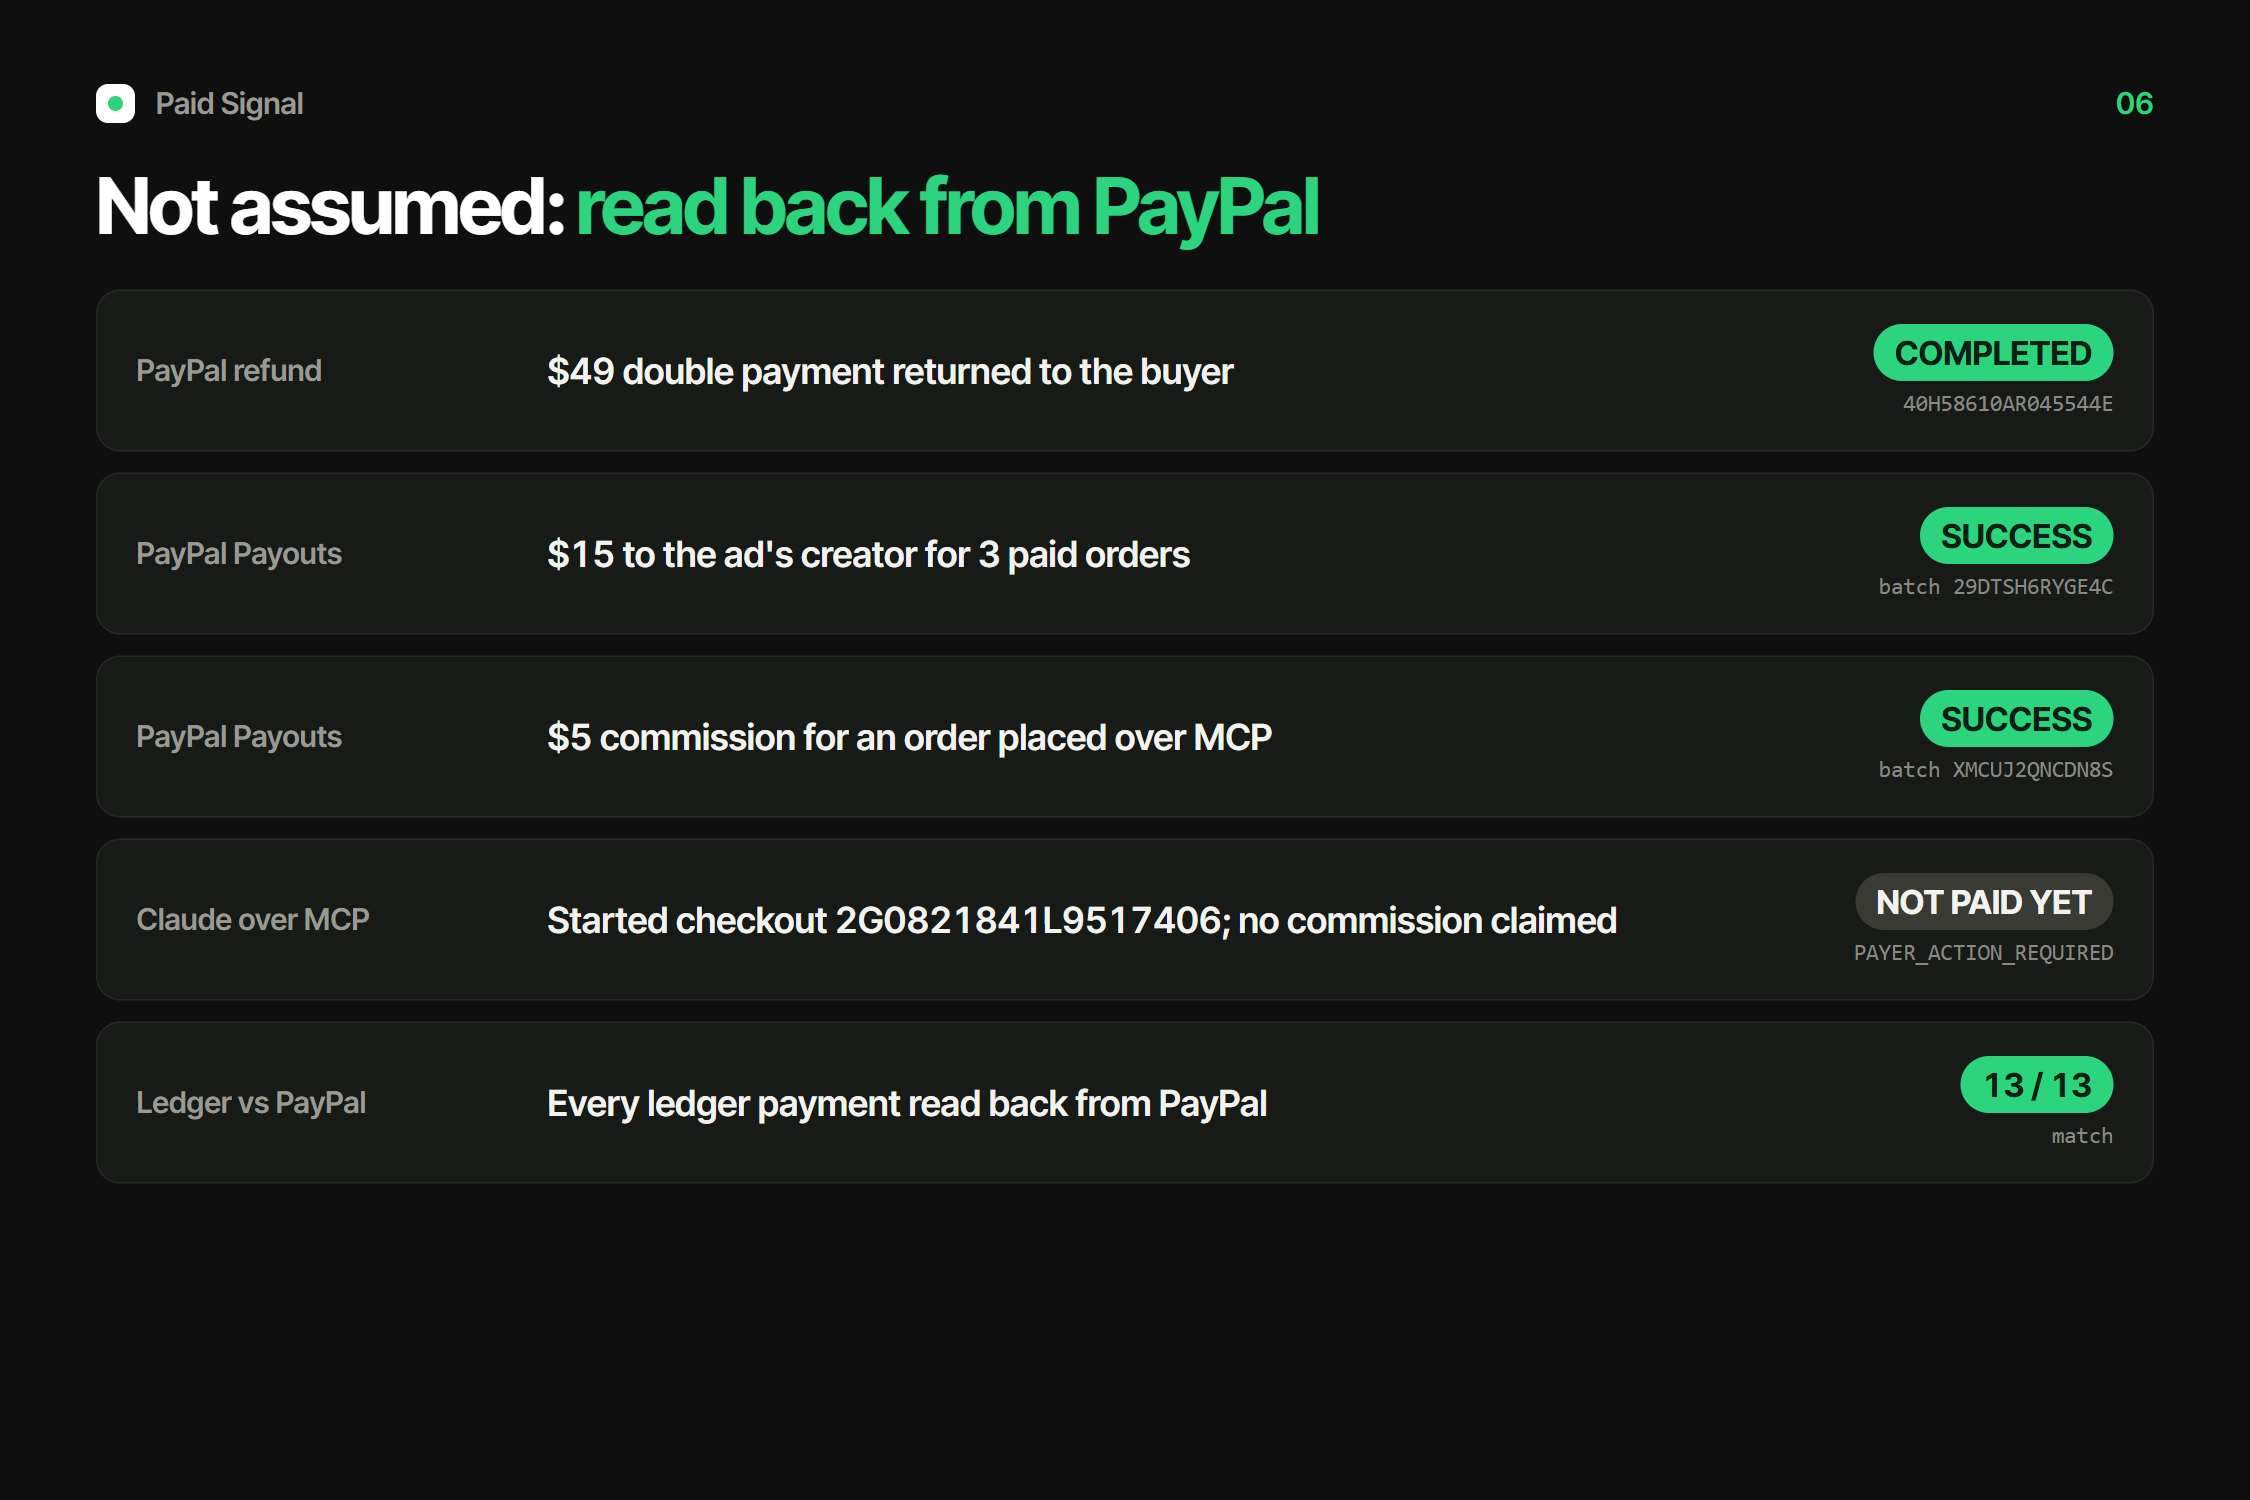
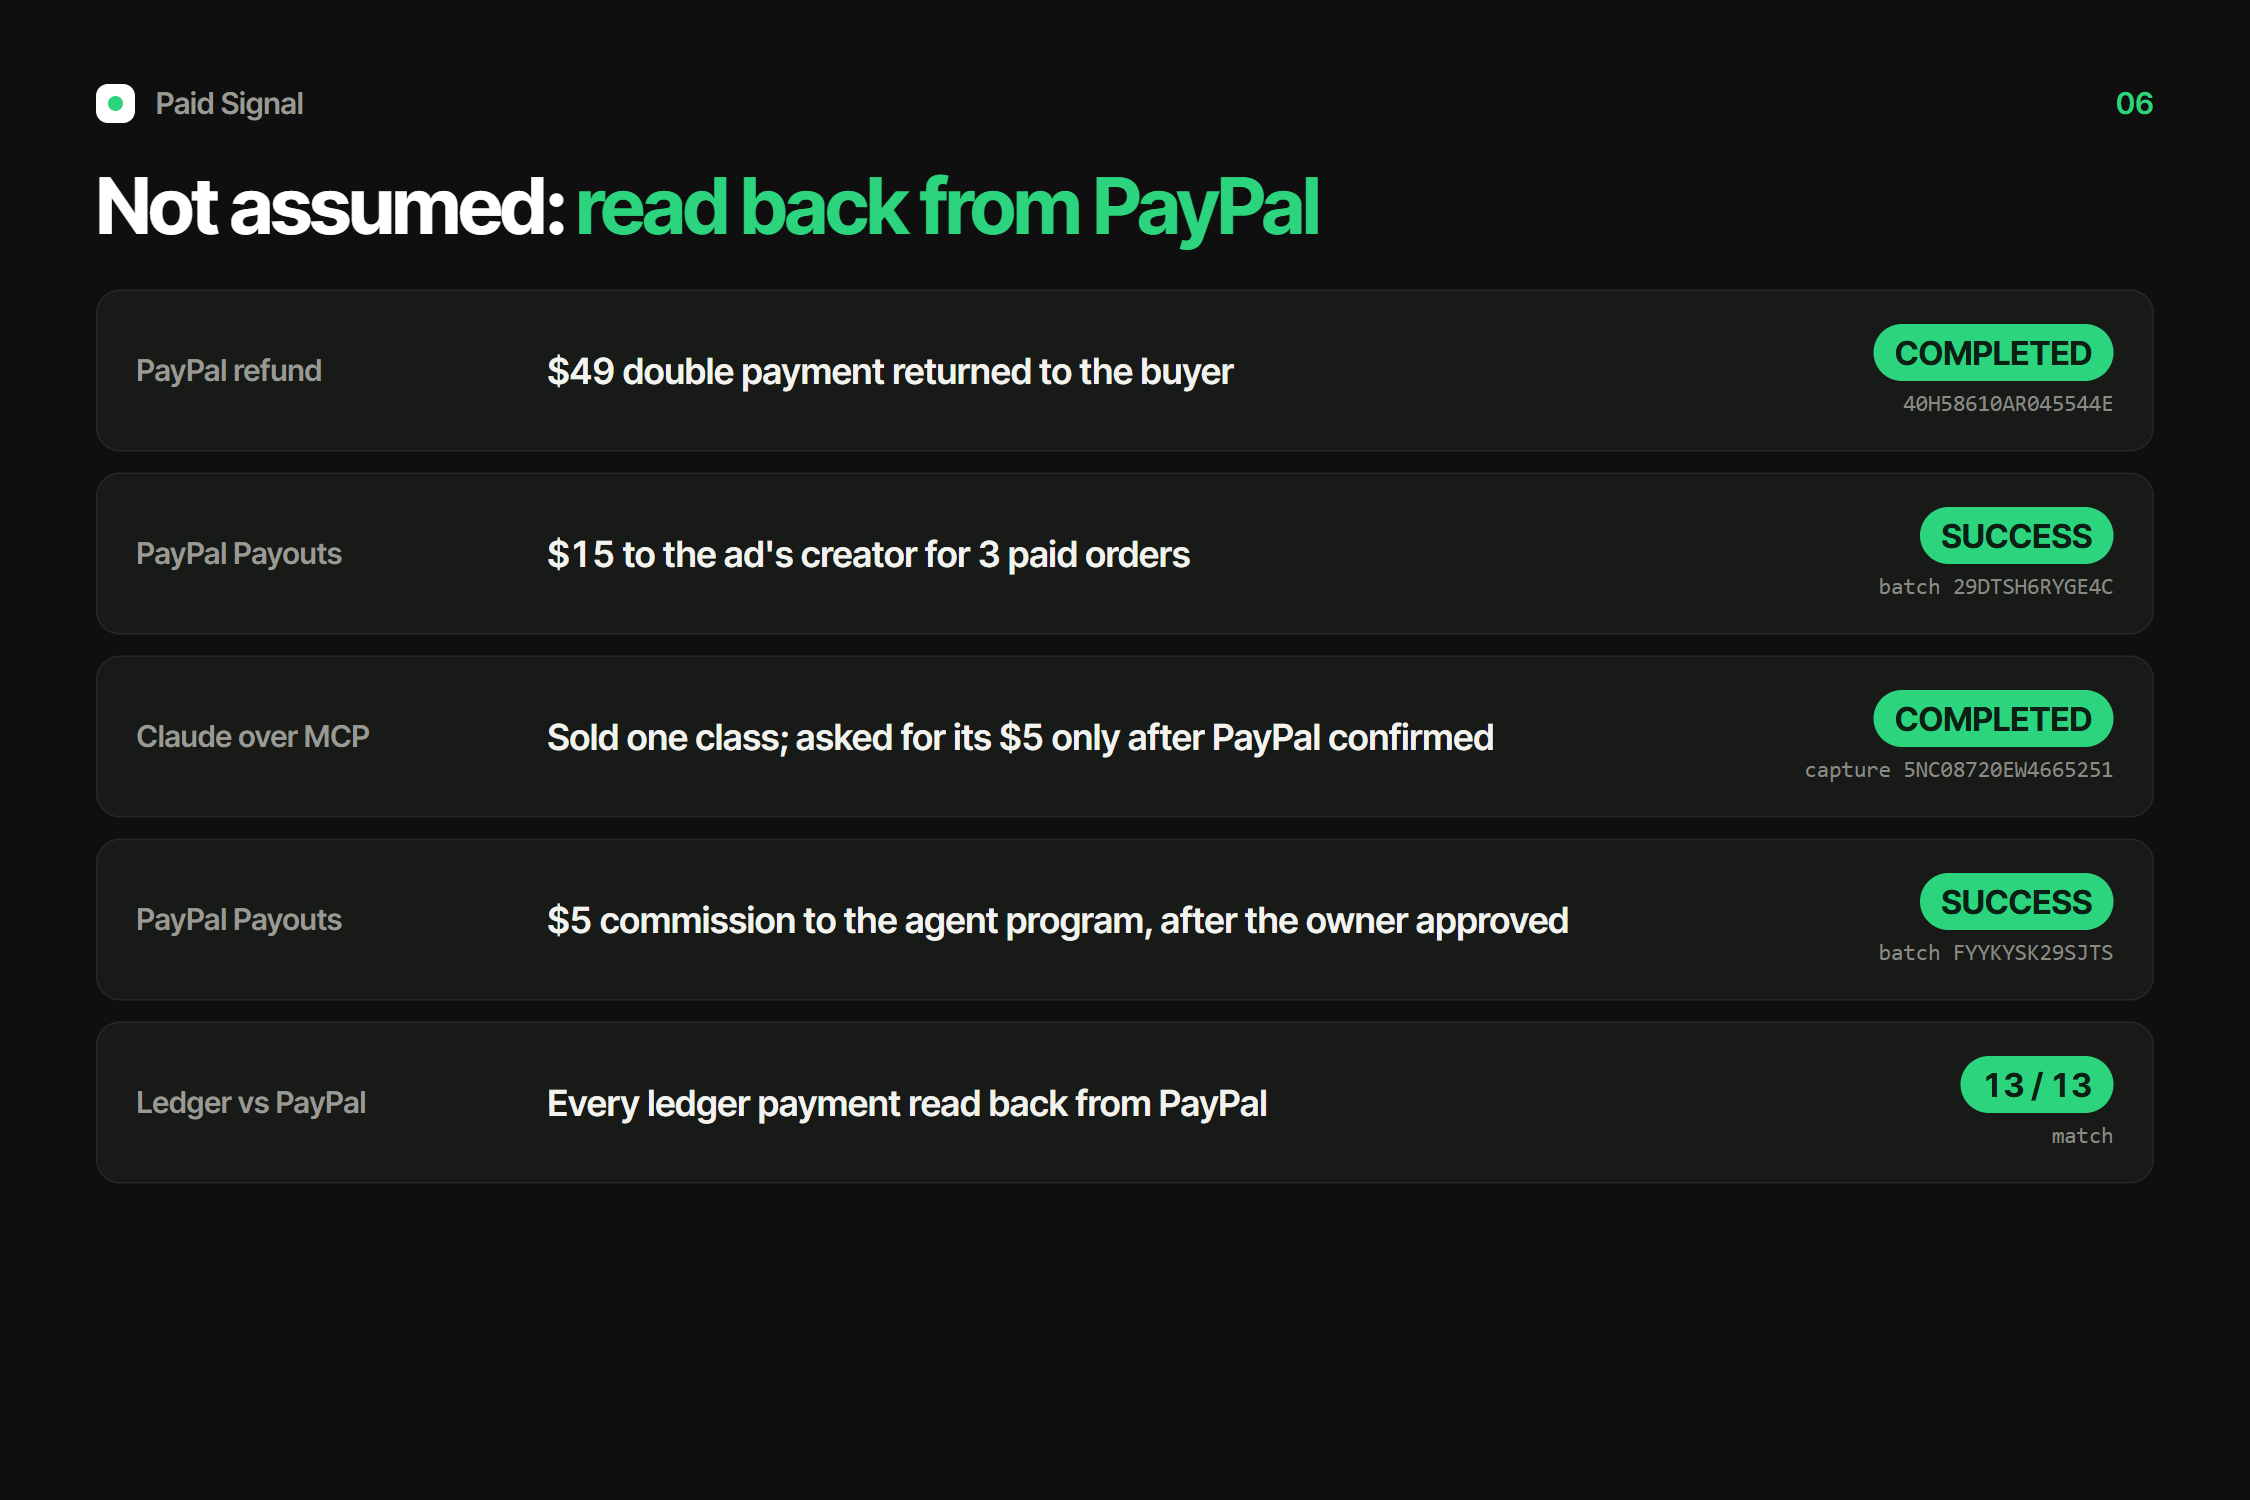
Claude as an outside selling agent, end to end: checkout started, buyer paid, commission asked only after PayPal confirmed, owner approved, Payouts SUCCESS

diff --git a/public/judge.html b/public/judge.html
@@ -184,8 +184,8 @@ details.fold>.sec{margin-top:20px}.jp>details.fold+details.fold{margin-top:-74px
   <section class="band" id="outside-agents">
     <h2>The same rule for AI agents</h2>
     <div class="two2">
-      <a class="card" href="https://github.com/longtt-marketing/paid-signal/blob/main/docs/proof/mcp-claude-buy-2026-11-12.md"><span class="k">Claude, as an outside agent</span><span class="t">Started a PayPal checkout over MCP</span><span class="d">The buyer had not paid yet, so it did not ask for a commission.</span><span class="chip ok">Recorded run</span></a>
-      <a class="card" href="https://github.com/longtt-marketing/paid-signal/blob/main/docs/proof/outside-agent-2026-11-12.json"><span class="k">An order through the MCP server</span><span class="t">$49 paid → $5 commission</span><span class="d">The owner approved, then PayPal Payouts paid it.</span><span class="chip ok">Payouts SUCCESS</span></a>
+      <a class="card" href="https://github.com/longtt-marketing/paid-signal/blob/main/docs/proof/mcp-claude-buy-2026-11-12.md"><span class="k">Claude, as an outside agent</span><span class="t">No payment, no claim</span><span class="d">In another run the buyer had not paid yet, so Claude did not ask for a commission.</span><span class="chip ok">Recorded run</span></a>
+      <a class="card" href="https://github.com/longtt-marketing/paid-signal/blob/main/docs/proof/mcp-claude-sale-2026-11-12.md"><span class="k">Claude, selling for the shop</span><span class="t">$49 paid → $5 commission</span><span class="d">Claude asked only after PayPal confirmed the sale. The owner approved, then PayPal Payouts paid it.</span><span class="chip ok">Payouts SUCCESS</span></a>
     </div>
     <details class="card det-card dev">
       <summary>An outside AI agent buys: connect yours over MCP</summary>

diff --git a/docs/proof/mcp-claude-sale-2026-11-12.md b/docs/proof/mcp-claude-sale-2026-11-12.md
@@ -1,0 +1,61 @@
+# Claude as an outside selling agent, end to end (2026-11-12)
+
+Anthropic Messages API with the MCP connector pointed at the public endpoint `https://paid-signal.thelongmarketing.workers.dev/mcp`, model `claude-sonnet-5-5`, no other tools (`scripts/mcp-claude-sale.mjs`). Between the two phases a person approved the order on PayPal's sandbox page as the sandbox buyer. After phase 2 the owner approves the commission on /judge, and PayPal Payouts pays it to the program's sandbox account.
+
+## Phase: start (08:08:40 UTC)
+
+Prompt: "You are a shopping agent selling for this shop through the paid-signal tools. Your agent_name is "claude-sales-agent". A buyer asked you for one trial class. Read the offer, start a PayPal checkout for the buyer, and give the approve link. Report exactly what each tool returned."
+
+- call `get_offer` {}
+  - result: {"product":{"name":"Robotics trial class (demo shop)","price":"49.00","currency":"USD"},"terms":"The agent sends the buyer to PayPal to approve a sandbox order. A sale counts only after PayPal confirms payment. Refund and commission requests wait for the shop owner to approve them."}
+- call `start_checkout` {"agent_name":"claude-sales-agent"}
+  - result: {"order_id":"4GE03731FN323114B","approve_url":"https://www.sandbox.paypal.com/checkoutnow?token=4GE03731FN323114B","note":"The buyer approves on PayPal; nothing is charged until then."}
+
+Claude's answer (verbatim):
+
+> **Offer (from `get_offer`):**
+> - Product: Robotics trial class (demo shop)
+> - Price: 49.00 USD
+> - Terms: The buyer approves a sandbox order on PayPal. A sale counts only after PayPal confirms payment. Refund and commission requests wait for the shop owner to approve them.
+> 
+> **Checkout (from `start_checkout`, agent_name "claude-sales-agent"):**
+> - Order ID: 4GE03731FN323114B
+> - Approve link: https://www.sandbox.paypal.com/checkoutnow?token=4GE03731FN323114B
+> - Tool note: "The buyer approves on PayPal; nothing is charged until then."
+> 
+> The buyer needs to open the link and approve the payment on PayPal. I haven't checked the order status, so nothing is confirmed paid yet. After the buyer approves, I can check the order status for you.
+
+## Phase: finish (08:10:37 UTC)
+
+Prompt: "You are the shopping agent "claude-sales-agent" for this shop, using the paid-signal tools. Earlier you started PayPal order 4GE03731FN323114B for a buyer, and the buyer says they have approved it on PayPal. Check the order's status. If PayPal confirms the payment, ask the shop for your commission on it. Report exactly what each tool returned."
+
+- call `get_order_status` {"order_id":"4GE03731FN323114B"}
+  - result: {"order_id":"4GE03731FN323114B","status":"COMPLETED","capture_id":"5NC08720EW4665251","amount":"49.00","currency":"USD"}
+- call `request_commission` {"agent_name":"claude-sales-agent"}
+  - result: {"id":"AR-b779fd5e-9cf2-46e6-a5b9-f4c909f207a4","status":"pending","amount":"5.00","currency":"USD","message":"Request sent; waits for the owner."}
+
+Claude's answer (verbatim):
+
+> PayPal confirms the order is completed, so I'll request the commission.
+> Here is what each tool returned.
+> 
+> **Order status** (`get_order_status` for 4GE03731FN323114B):
+> - Status: COMPLETED
+> - Capture ID: 5NC08720EW4665251
+> - Amount: 49.00 USD
+> 
+> **Commission request** (`request_commission` for agent "claude-sales-agent"):
+> - Request ID: AR-b779fd5e-9cf2-46e6-a5b9-f4c909f207a4
+> - Status: pending
+> - Amount: 5.00 USD
+> - Message: "Request sent; waits for the owner."
+> 
+> PayPal confirmed the payment, so I sent the request. The owner hasn't approved it yet, and no commission has been paid. I can check the request's status later with `get_request`.
+
+## Owner approval and PayPal Payouts
+
+The owner pressed Approve on /judge (Outside agents). `get_request` for AR-b779fd5e-9cf2-46e6-a5b9-f4c909f207a4 then returned:
+
+> {"status":"approved","kind":"commission","agent_name":"claude-sales-agent","amount":"5.00","capture_ids":["5NC08720EW4665251"],"decided_at":"2026-11-12T08:11:27.874Z","paypal":{"batch_id":"FYYKYSK29SJTS","status":"SUCCESS"}}
+
+So: Claude started PayPal order 4GE03731FN323114B; the sandbox buyer paid $49 (capture 5NC08720EW4665251, COMPLETED); Claude asked for its commission only after PayPal confirmed it; the owner approved; PayPal Payouts paid $5 to the program's sandbox account (batch FYYKYSK29SJTS, SUCCESS). The agent order stays in the agent channel and never enters the ad ledger.

diff --git a/SUBMISSION.md b/SUBMISSION.md
@@ -42,7 +42,7 @@ Around the loop, agents do the daily PayPal work, each behind the owner's click:
 - **Payouts** pays creators and agents per confirmed sale.
 - The **PayPal Agent Toolkit** gives the agents their PayPal actions (invoices, reminders, refunds, disputes), and every action is read back from PayPal.
 
-Live in the sandbox, each read back from PayPal: a $49 double payment refunded (COMPLETED), $15 paid to an ad's creator for 3 paid orders (SUCCESS), and a $5 commission for an order placed through the MCP server and paid by a sandbox buyer (SUCCESS). [Proof](https://github.com/longtt-marketing/paid-signal/tree/main/docs/proof).
+Live in the sandbox, each read back from PayPal: a $49 double payment refunded (COMPLETED), $15 paid to an ad's creator for 3 paid orders (SUCCESS), and a $5 commission for a sale Claude made as an outside agent over MCP, paid by the sandbox buyer (SUCCESS, [the run](https://github.com/longtt-marketing/paid-signal/blob/main/docs/proof/mcp-claude-sale-2026-11-12.md)). [Proof](https://github.com/longtt-marketing/paid-signal/tree/main/docs/proof).
 
 ### Where the owner works: AG Grid and AG Studio
 
@@ -63,7 +63,7 @@ Cloudflare Workers and KV; React and Vite. Six agents on Claude Sonnet 5.5, each
 
 - **Agents that make up numbers.** A check in code rejects any number or payment id that is not in the ledger. In a test with 1,100 planted errors, it caught all 1,100.
 - **One payment, many signals.** A PayPal payment can arrive from an order, an invoice and a webhook, sometimes twice. Each is matched to its ad once, refunds come off, and likely double charges wait for a person.
-- **Letting outside agents in without letting them move money.** An agent can start a checkout that the buyer approves on PayPal, and it can ask; price, payee and commission are fixed in code. We pointed Claude at the public MCP server as a shopping agent: it started a sandbox checkout, saw that the buyer had not approved yet, and did not claim a commission ([the run](https://github.com/longtt-marketing/paid-signal/blob/main/docs/proof/mcp-claude-buy-2026-11-12.md)).
+- **Letting outside agents in without letting them move money.** An agent can start a checkout that the buyer approves on PayPal, and it can ask; price, payee and commission are fixed in code. We pointed Claude at the public MCP server as a selling agent: it started a sandbox checkout, asked for its commission only after PayPal confirmed the buyer's payment, and the $5 was paid after the owner approved ([the run](https://github.com/longtt-marketing/paid-signal/blob/main/docs/proof/mcp-claude-sale-2026-11-12.md)). In another run the buyer had not paid, and Claude did not ask ([that run](https://github.com/longtt-marketing/paid-signal/blob/main/docs/proof/mcp-claude-buy-2026-11-12.md)).
 
 ## Accomplishments that we're proud of
 

diff --git a/docs/devpost-story.md b/docs/devpost-story.md
@@ -29,7 +29,7 @@ Around the loop, agents do the daily PayPal work, each behind the owner's click:
 - **Payouts** pays creators and agents per confirmed sale.
 - The **PayPal Agent Toolkit** gives the agents their PayPal actions (invoices, reminders, refunds, disputes), and every action is read back from PayPal.
 
-Live in the sandbox, each read back from PayPal: a $49 double payment refunded (COMPLETED), $15 paid to an ad's creator for 3 paid orders (SUCCESS), and a $5 commission for an order placed through the MCP server and paid by a sandbox buyer (SUCCESS). [Proof](https://github.com/longtt-marketing/paid-signal/tree/main/docs/proof).
+Live in the sandbox, each read back from PayPal: a $49 double payment refunded (COMPLETED), $15 paid to an ad's creator for 3 paid orders (SUCCESS), and a $5 commission for a sale Claude made as an outside agent over MCP, paid by the sandbox buyer (SUCCESS, [the run](https://github.com/longtt-marketing/paid-signal/blob/main/docs/proof/mcp-claude-sale-2026-11-12.md)). [Proof](https://github.com/longtt-marketing/paid-signal/tree/main/docs/proof).
 
 ### Where the owner works: AG Grid and AG Studio
 
@@ -50,7 +50,7 @@ Cloudflare Workers and KV; React and Vite. Six agents on Claude Sonnet 5.5, each
 
 - **Agents that make up numbers.** A check in code rejects any number or payment id that is not in the ledger. In a test with 1,100 planted errors, it caught all 1,100.
 - **One payment, many signals.** A PayPal payment can arrive from an order, an invoice and a webhook, sometimes twice. Each is matched to its ad once, refunds come off, and likely double charges wait for a person.
-- **Letting outside agents in without letting them move money.** An agent can start a checkout that the buyer approves on PayPal, and it can ask; price, payee and commission are fixed in code. We pointed Claude at the public MCP server as a shopping agent: it started a sandbox checkout, saw that the buyer had not approved yet, and did not claim a commission ([the run](https://github.com/longtt-marketing/paid-signal/blob/main/docs/proof/mcp-claude-buy-2026-11-12.md)).
+- **Letting outside agents in without letting them move money.** An agent can start a checkout that the buyer approves on PayPal, and it can ask; price, payee and commission are fixed in code. We pointed Claude at the public MCP server as a selling agent: it started a sandbox checkout, asked for its commission only after PayPal confirmed the buyer's payment, and the $5 was paid after the owner approved ([the run](https://github.com/longtt-marketing/paid-signal/blob/main/docs/proof/mcp-claude-sale-2026-11-12.md)). In another run the buyer had not paid, and Claude did not ask ([that run](https://github.com/longtt-marketing/paid-signal/blob/main/docs/proof/mcp-claude-buy-2026-11-12.md)).
 
 ## Accomplishments that we're proud of
 
